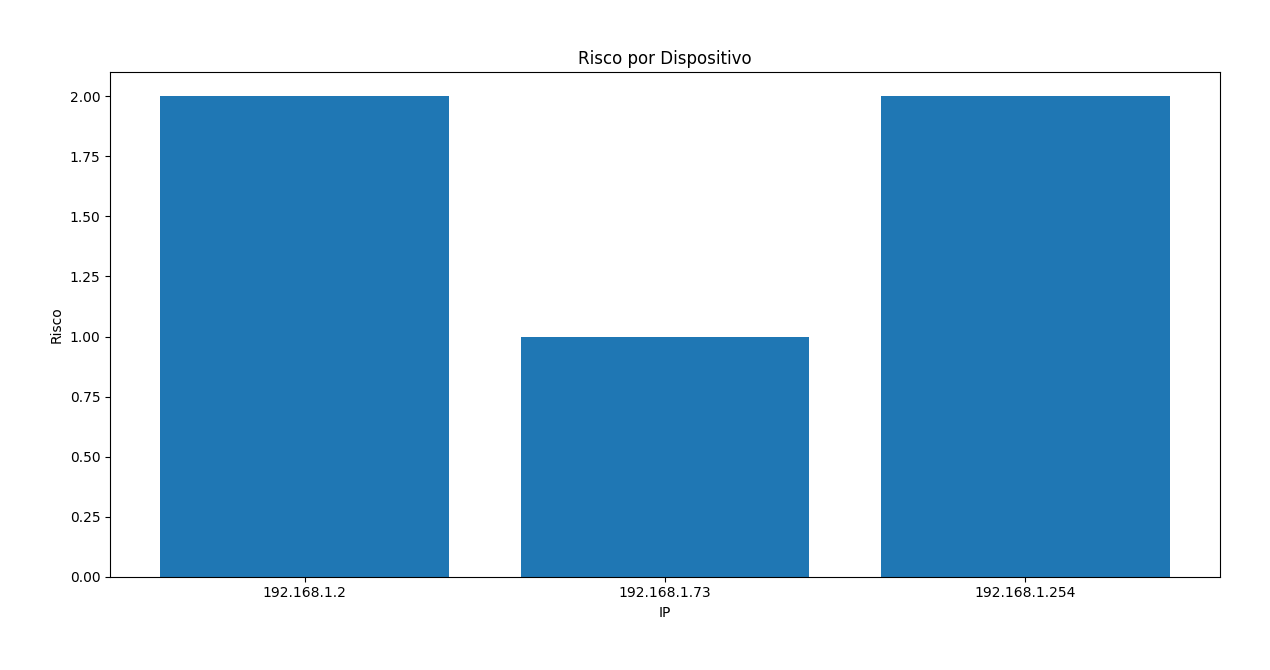
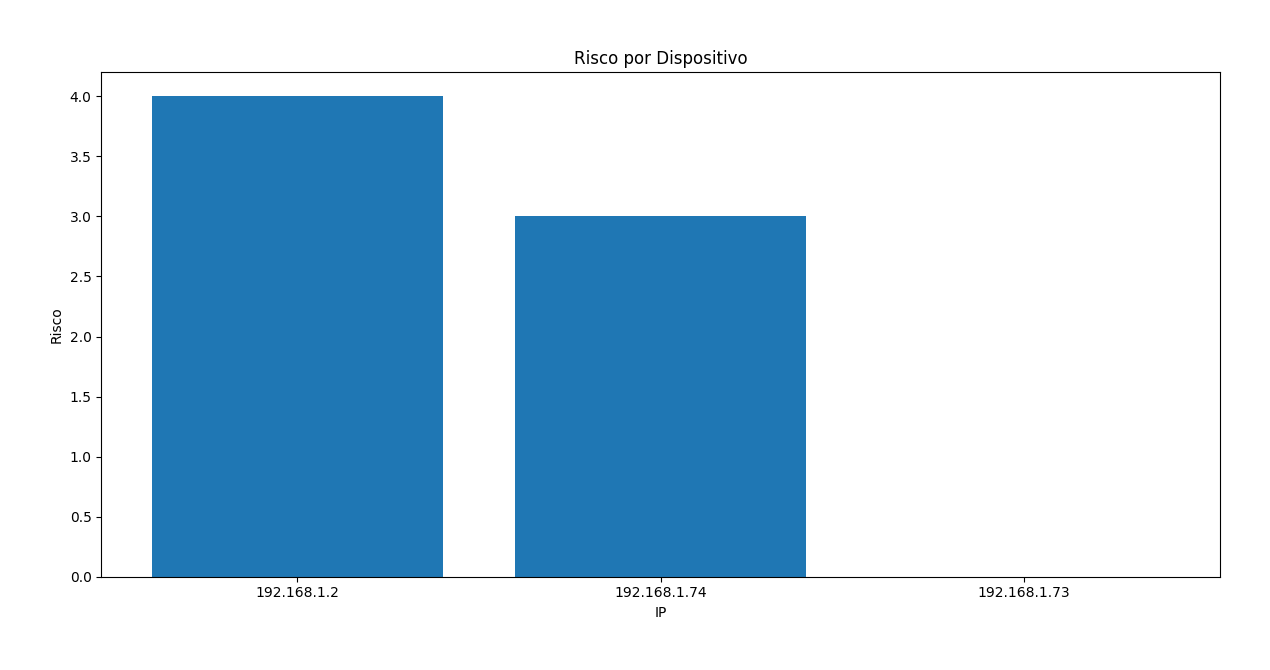
feat: Versão estável do InfraInsight
- ✅ Scanner de rede completo com Nmap
- ✅ Classificação automática de dispositivos
- ✅ Detecção de portas abertas e serviços
- ✅ Sistema de risco com pontuação por portas
- ✅ Alertas de segurança (Telnet, SMB, RTSP, RDP)
- ✅ Scan Wi-Fi com iwlist (detecta redes e sinal)
- ✅ Persistência SQLite (29+ scans)
- ✅ Dashboard Flask funcional
- ✅ Relatórios PDF profissionais
- ✅ Gráficos automáticos
- ✅ Cache de MACs para lookup rápido
- ✅ Ambiente dinâmico (Casa/Trabalho)

Melhorias recentes:
- 🔥 Pontuação de risco por portas abertas
- 🔥 Alertas específicos para portas perigosas
- 🔥 Scan Wi-Fi integrado com 9+ redes detectadas
- 🔥 Correção do parsing do iwlist

diff --git a/core/wifi_scanner.py b/core/wifi_scanner.py
@@ -1,0 +1,195 @@
+#!/usr/bin/env python3
+# core/wifi_scanner.py - Scanner Wi-Fi com iwlist/aircrack-ng
+
+import subprocess
+import re
+import os
+
+def verificar_aircrack():
+    """Verifica se aircrack-ng está instalado"""
+    try:
+        result = subprocess.run(['which', 'aircrack-ng'], capture_output=True, text=True)
+        return result.returncode == 0
+    except:
+        return False
+
+def listar_interfaces_wifi():
+    """Lista interfaces Wi-Fi disponíveis"""
+    try:
+        result = subprocess.run(['iwconfig'], capture_output=True, text=True)
+        interfaces = []
+        for line in result.stdout.split('\n'):
+            if 'IEEE 802.11' in line:
+                intf = line.split()[0]
+                interfaces.append(intf)
+        return interfaces
+    except:
+        return []
+
+def scan_wifi_com_iwlist(interface='wlo1'):
+    """Scan Wi-Fi usando iwlist (mais simples, não requer modo monitor)"""
+    try:
+        print(f"   📡 Escaneando com {interface}...")
+        
+        result = subprocess.run(['sudo', 'iwlist', interface, 'scan'], 
+                                capture_output=True, text=True, timeout=30)
+        
+        if result.returncode != 0:
+            print(f"   ⚠ Erro: {result.stderr[:100]}")
+            return []
+        
+        # Verificar se tem resultado
+        if "No scan results" in result.stdout:
+            print("   ⚠ Nenhum resultado de scan.")
+            return []
+        
+        redes = []
+        # Dividir por células
+        cells = result.stdout.split('Cell ')
+        
+        for cell in cells[1:]:  # Pular primeiro item vazio
+            # Extrair BSSID (MAC)
+            bssid_match = re.search(r'Address: ([0-9A-F:]+)', cell, re.IGNORECASE)
+            
+            # Extrair ESSID (nome da rede)
+            ssid_match = re.search(r'ESSID:"([^"]*)"', cell)
+            
+            # Extrair qualidade do sinal
+            quality_match = re.search(r'Quality[=:]\s*(\d+)/(\d+)', cell)
+            
+            # Extrair canal
+            channel_match = re.search(r'Channel:(\d+)', cell)
+            
+            # Verificar se é criptografada
+            encrypted_match = re.search(r'Encryption key:(\w+)', cell)
+            
+            if bssid_match:
+                ssid = ssid_match.group(1) if ssid_match else 'Oculta'
+                # Ignorar redes ocultas sem nome
+                if ssid or ssid == 'Oculta':
+                    qualidade = None
+                    if quality_match:
+                        qualidade = f"{quality_match.group(1)}/{quality_match.group(2)}"
+                    
+                    # Calcular porcentagem de sinal
+                    sinal_percent = None
+                    if quality_match:
+                        try:
+                            sinal = int(quality_match.group(1)) / int(quality_match.group(2)) * 100
+                            sinal_percent = f"{sinal:.0f}%"
+                        except:
+                            pass
+                    
+                    redes.append({
+                        'bssid': bssid_match.group(1),
+                        'ssid': ssid if ssid else 'Oculta',
+                        'channel': channel_match.group(1) if channel_match else '?',
+                        'quality': qualidade,
+                        'sinal': sinal_percent,
+                        'encrypted': encrypted_match.group(1) == 'on' if encrypted_match else True
+                    })
+        
+        return redes
+    except subprocess.TimeoutExpired:
+        print(f"   ⏰ Timeout no scan Wi-Fi")
+        return []
+    except Exception as e:
+        print(f"   ⚠ Erro no scan Wi-Fi: {e}")
+        return []
+
+def scan_wifi_avancado(interface='wlo1', timeout=15):
+    """Scan Wi-Fi avançado com aircrack (requer modo monitor)"""
+    if not verificar_aircrack():
+        return []
+    
+    redes = []
+    try:
+        # Verificar se pode iniciar modo monitor
+        check = subprocess.run(['sudo', 'airmon-ng', 'start', interface], 
+                               capture_output=True, text=True)
+        
+        if 'mon' in check.stdout:
+            mon_interface = interface + 'mon'
+            
+            # Escanear
+            process = subprocess.Popen(
+                ['sudo', 'airodump-ng', mon_interface],
+                stdout=subprocess.PIPE,
+                stderr=subprocess.DEVNULL,
+                text=True
+            )
+            
+            import time
+            time.sleep(timeout)
+            process.terminate()
+            
+            # Parar modo monitor
+            subprocess.run(['sudo', 'airmon-ng', 'stop', mon_interface], 
+                          capture_output=True)
+            
+    except Exception as e:
+        print(f"   ⚠ Scan avançado falhou: {e}")
+    
+    return redes
+
+def scan_wifi_simples():
+    """Scan Wi-Fi simplificado - tenta detectar automaticamente"""
+    interfaces = listar_interfaces_wifi()
+    
+    if not interfaces:
+        return []
+    
+    # Usar primeira interface Wi-Fi encontrada
+    interface = interfaces[0]
+    print(f"   📡 Usando interface: {interface}")
+    
+    return scan_wifi_com_iwlist(interface)
+
+def scan_wifi_nmcli():
+    """Scan Wi-Fi usando nmcli (NetworkManager) - alternativa mais rápida"""
+    try:
+        result = subprocess.run(['nmcli', 'device', 'wifi', 'list'], 
+                                capture_output=True, text=True, timeout=15)
+        
+        if result.returncode != 0:
+            return []
+        
+        redes = []
+        lines = result.stdout.split('\n')[1:]  # Pular cabeçalho
+        
+        for line in lines:
+            if line.strip():
+                parts = line.split()
+                if len(parts) >= 8:
+                    redes.append({
+                        'ssid': ' '.join(parts[7:]) if len(parts) > 7 else parts[7],
+                        'bssid': parts[0] if len(parts) > 0 else '?',
+                        'channel': parts[3] if len(parts) > 3 else '?',
+                        'quality': f"{parts[1]}/{parts[2]}" if len(parts) > 2 else '?',
+                        'encrypted': parts[5] != '--' if len(parts) > 5 else True
+                    })
+        
+        return redes
+    except Exception as e:
+        return []
+
+# Teste rápido
+if __name__ == "__main__":
+    print("="*50)
+    print("🔍 Wi-Fi Scanner")
+    print("="*50)
+    
+    interfaces = listar_interfaces_wifi()
+    print(f"📡 Interfaces Wi-Fi: {interfaces}")
+    
+    if interfaces:
+        print("\n📶 Redes Wi-Fi próximas:")
+        redes = scan_wifi_simples()
+        if redes:
+            for rede in redes[:15]:
+                encrypted = "🔒" if rede['encrypted'] else "🌐"
+                print(f"   {encrypted} {rede['ssid']} - {rede['bssid']} (Canal {rede['channel']}) Sinal: {rede.get('sinal', 'N/A')}")
+        else:
+            print("   Nenhuma rede encontrada")
+    else:
+        print("❌ Nenhuma interface Wi-Fi encontrada")

diff --git a/scanner.py b/scanner.py
@@ -6,6 +6,17 @@ import re
 import json
 import os
 import socket
+
+
+# Wi-Fi Scanner
+try:
+    from core.wifi_scanner import scan_wifi_simples, listar_interfaces_wifi, verificar_aircrack
+    WIFI_AVAILABLE = True
+except ImportError:
+    WIFI_AVAILABLE = False
+    print("[INFO] Módulo Wi-Fi não disponível")
+
+
 from datetime import datetime
 
 from core.host_local import obter_host_local
@@ -256,10 +267,39 @@ print(f"Risco medio: {risco_medio}/10")
 print(f"MACs randomizados: {mac_randomizados}")
 print(f"Desconhecidos: {desconhecidos}")
 
-print("\nDispositivos detectados:")
+print("\n📱 DISPOSITIVOS DETECTADOS:")
+print("-"*100)
+
+tipos = {}
 for d in dispositivos_processados:
-    icon = "🟢" if d["risco"] <= 2 else "🟡" if d["risco"] <= 5 else "🟠"
-    print(f"{icon} {d['ip']:15} | {d['nome'][:20]:20} | {d['fabricante'][:25]:25} | {d['tipo'][:20]:20} | Risco {d['risco']}/10")
+    tipo = d["tipo"]
+    tipos[tipo] = tipos.get(tipo, 0) + 1
+    
+    # Indicador visual de risco
+    risk_icon = "🟢" if d["risco"] <= 2 else "🟡" if d["risco"] <= 5 else "🟠" if d["risco"] <= 7 else "🔴"
+    
+    # Mostrar portas abertas
+    ports_info = ""
+    if d.get('open_ports') and len(d['open_ports']) > 0:
+        ports_str = ', '.join(map(str, d['open_ports']))
+        ports_info = f" 🔓 Portas: [{ports_str}]"
+    
+    # Mostrar serviços nas portas
+    services_info = ""
+    if d.get('open_ports'):
+        services = []
+        for port in d['open_ports']:
+            service = {
+                22: "SSH", 23: "Telnet", 80: "HTTP", 443: "HTTPS",
+                445: "SMB", 3389: "RDP", 5900: "VNC", 8080: "Proxy",
+                554: "RTSP", 1900: "UPnP", 21: "FTP", 25: "SMTP"
+            }.get(port, "")
+            if service:
+                services.append(service)
+        if services:
+            services_info = f" [{', '.join(services)}]"
+    
+    print(f"{risk_icon} {d['ip']:15} | {d['nome'][:20]:20} | {d['fabricante'][:25]:25} | {d['tipo'][:20]:20} | Risco {d['risco']}/10{ports_info}{services_info}")
 
 # Salvar histórico
 with open(historico_arquivo, "w") as f:
@@ -327,6 +367,42 @@ try:
     print(f"\n📄 Relatório PDF gerado: {caminho_pdf}")
 except Exception as e:
     print(f"❌ Erro ao gerar PDF: {e}")
+
+# =========================
+# Scan Wi-Fi (opcional)
+# =========================
+if CONFIG.get("scan_wifi", False):
+    print("\n" + "="*60)
+    print("📶 SCAN WI-FI")
+    print("="*60)
+    
+    try:
+        from core.wifi_scanner import listar_interfaces_wifi, scan_wifi_simples
+        
+        interfaces = listar_interfaces_wifi()
+        if interfaces:
+            print(f"📡 Interface: {interfaces[0]}")
+            
+            redes_wifi = scan_wifi_simples()
+            
+            if redes_wifi:
+                print(f"\n📡 Redes Wi-Fi detectadas: {len(redes_wifi)}")
+                print("-" * 75)
+                print(f"   {'SSID':<25} {'BSSID':<20} {'Canal':<6} {'Sinal':<8} {'Segurança'}")
+                print("-" * 75)
+                for rede in redes_wifi[:20]:
+                    icone = "🔒" if rede.get('encrypted', True) else "🌐"
+                    ssid = rede['ssid'][:24] if len(rede['ssid']) > 24 else rede['ssid']
+                    sinal = rede.get('sinal', 'N/A')
+                    seguranca = "WPA2" if rede.get('encrypted', True) else "Aberta"
+                    print(f"   {icone} {ssid:<25} {rede['bssid']:<20} {rede['channel']:<6} {sinal:<8} {seguranca}")
+            else:
+                print("   Nenhuma rede Wi-Fi detectada")
+        else:
+            print("   Nenhuma interface Wi-Fi encontrada")
+    except Exception as e:
+        print(f"   ⚠ Erro no scan Wi-Fi: {e}")
+
 # =========================
 # Alertas de segurança
 # =========================

diff --git a/core/alerter.py b/core/alerter.py
@@ -16,4 +16,7 @@ def verificar_alertas(dispositivo, scan_atual, scan_anterior):
     if dispositivo.get('risco', 0) >= 7:
         alertas.append(f"🔴 ALTO RISCO: {dispositivo['ip']} - {dispositivo['risco']}/10")
     
+    # Detectar Telnet aberto
+    if 23 in dispositivo.get('open_ports', []):
+              alertas.append(f"⚠ TELNET ABERTO em {dispositivo['ip']} - Protocolo inseguro!")
     return alertas
